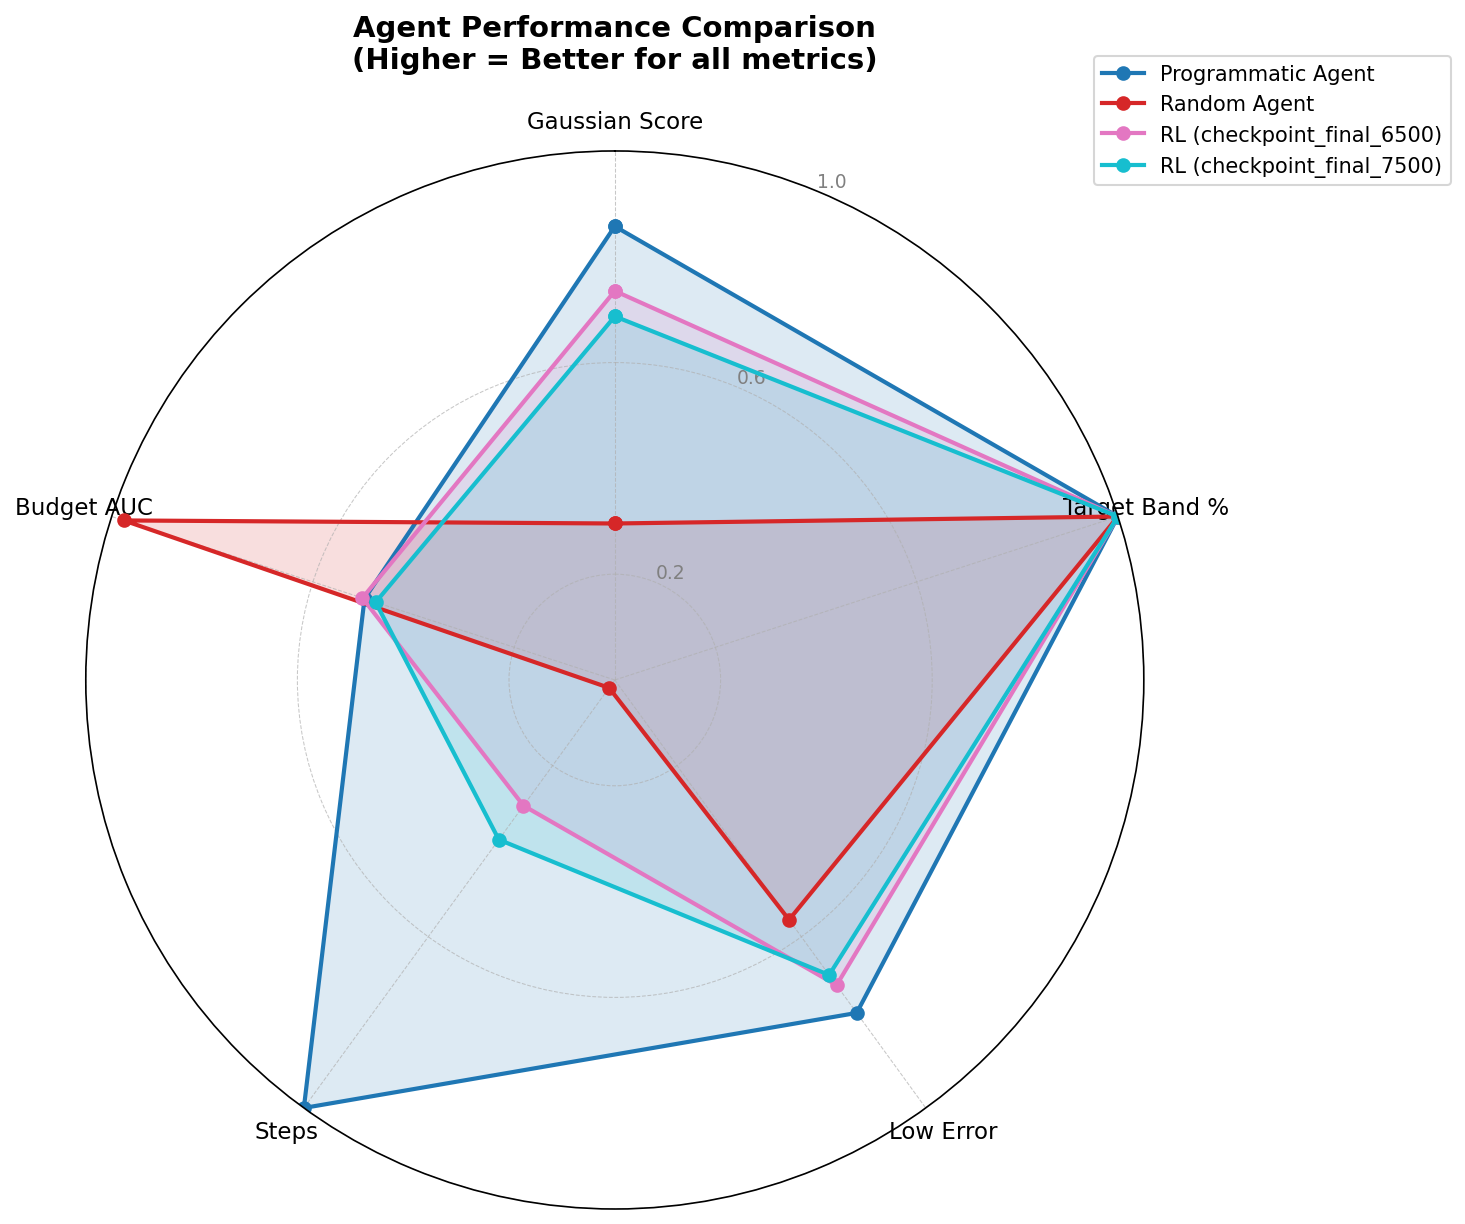
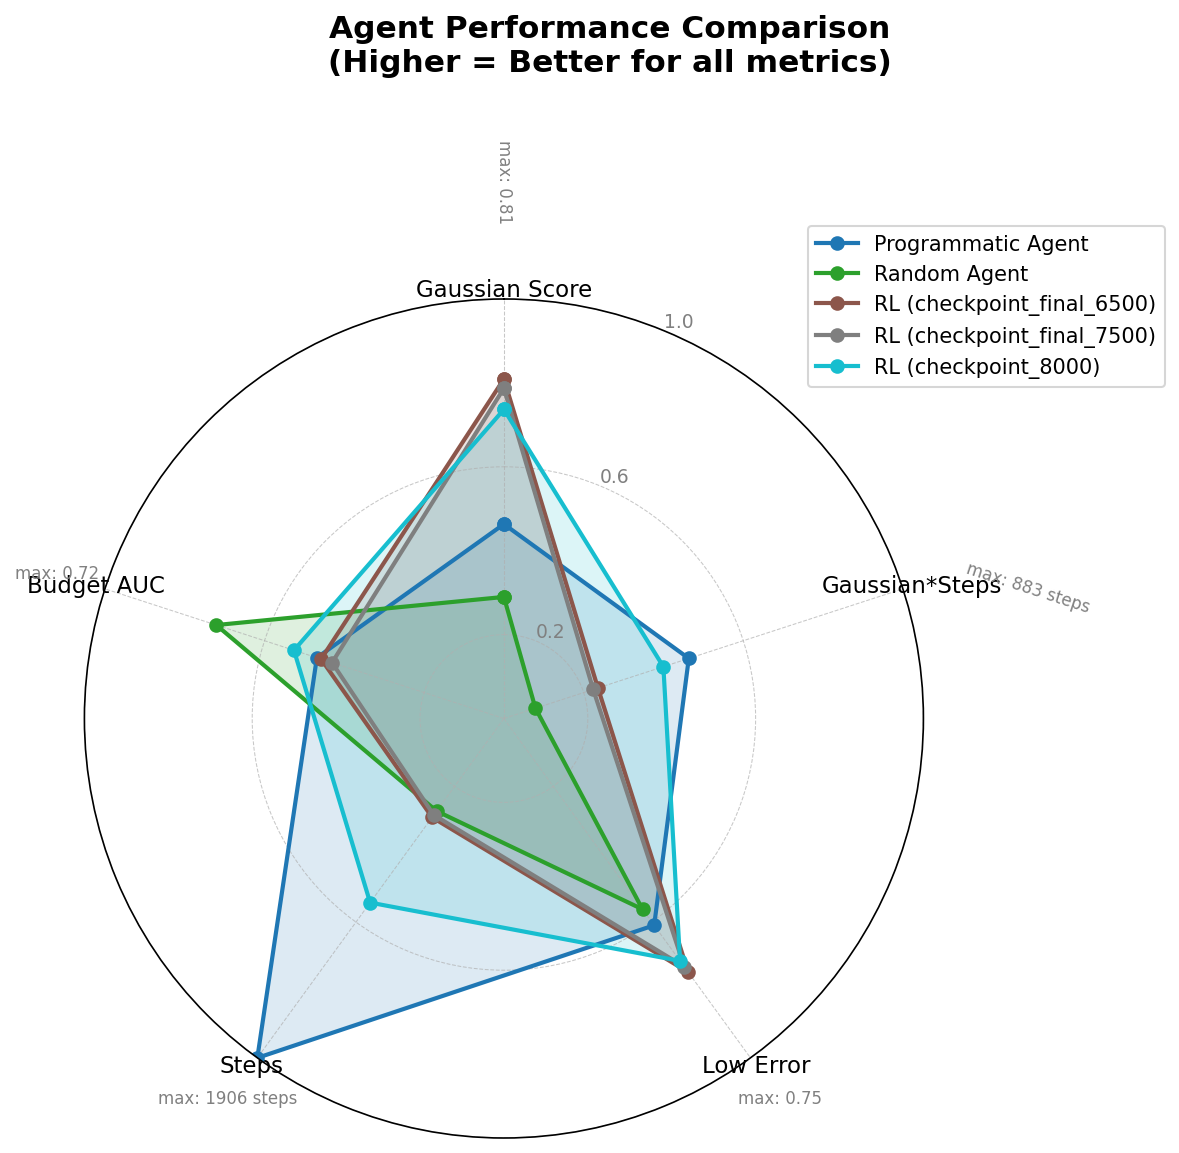
improved comparison charts

diff --git a/src/comparison/visualization.py b/src/comparison/visualization.py
@@ -196,28 +196,39 @@ def plot_radar_chart(
         return None
     
     # Define metrics to display (all higher=better after normalization)
-    # Show metrics: Gaussian Score, Target Band %, Low Error, Steps, and Budget AUC
+    # Show metrics: Gaussian Score, Gaussian*Steps (weights steps by gauss score), Low Error, Steps, and Budget AUC
     # Budget AUC is normalized by (tau * B0) per formula:
     # AUC_norm = (1 / (tau * B0)) * sum_{t=0}^{tau-1} B_t
     metric_names = [
         'Gaussian Score',
-        'Target Band %',
+        'Gaussian*Steps',
         'Low Error',
         'Steps',
         'Budget AUC',
     ]
-    
+
     # Prepare data for each agent
     # To normalize steps (unbounded) we compute the global max across all metrics
     max_steps = max((m.steps for m in all_metrics), default=1)
+
+    # Precompute max of gaussian_score * steps to normalize the new measure
+
+
     agent_data = []
+    # Keep track of observed raw maxima for each metric so we can annotate axis with their highest values
+    observed_gaussian = []
+    observed_gauss_steps = []
+    observed_low_error = []
+    observed_steps = []
+    observed_auc = []
     for metrics in all_metrics:
         # Gaussian kernel score (already 0-1, higher=better)
         gaussian_score = max(0.0, min(1.0, metrics.gaussian_kernel_score))
-        
-        # Target band ratio (0-1, higher=better)
-        target_band = metrics.target_band_ratio
-        
+
+        # Gaussian*Steps: weight the number of steps by gaussian score, then normalize across agents
+        steps_norm = metrics.steps / max_steps if max_steps > 0 else 0.0
+        gauss_steps_norm = gaussian_score * steps_norm
+        gauss_steps_raw = gaussian_score * metrics.steps
         # Budget efficiency: proportion of budget remaining (0-1, higher=better)
         #budget_efficiency = metrics.final_budget / metrics.initial_budget if metrics.initial_budget > 0 else 0.0
         
@@ -251,8 +262,14 @@ def plot_radar_chart(
 
         agent_data.append({
             'name': metrics.agent_name,
-            'values': [gaussian_score, target_band, low_error, steps_norm, auc_norm]
+            'values': [gaussian_score, gauss_steps_norm, low_error, steps_norm, auc_norm]
         })
+        # record observed raw values for axis annotations
+        observed_gaussian.append(gaussian_score)
+        observed_gauss_steps.append(gauss_steps_raw)
+        observed_low_error.append(low_error)
+        observed_steps.append(metrics.steps)
+        observed_auc.append(auc_norm)
     
     # Number of metrics
     num_vars = len(metric_names)
@@ -263,8 +280,8 @@ def plot_radar_chart(
     # Complete the loop
     angles += angles[:1]
     
-    # Create figure
-    fig, ax = plt.subplots(figsize=(10, 10), subplot_kw=dict(projection='polar'))
+    # Create figure (slightly smaller so the chart doesn't overlap window labels/title)
+    fig, ax = plt.subplots(figsize=(8, 8), subplot_kw=dict(projection='polar'))
     
     # Colors for different agents
     colors = plt.cm.tab10(np.linspace(0, 1, len(all_metrics)))
@@ -284,6 +301,8 @@ def plot_radar_chart(
     # Draw axis lines for each angle and label
     ax.set_xticks(angles[:-1])
     ax.set_xticklabels(metric_names, size=11)
+    # Move x tick labels slightly inward to avoid overlap with max-value annotations
+    ax.tick_params(axis='x', pad=-6)
     
     # Set y-axis limits
     ax.set_ylim(0, 1)
@@ -296,11 +315,41 @@ def plot_radar_chart(
     # Add legend
     ax.legend(loc='upper right', bbox_to_anchor=(1.3, 1.1), fontsize=10)
     
-    # Add title
-    plt.title('Agent Performance Comparison\n(Higher = Better for all metrics)', 
-              size=14, weight='bold', pad=20)
-    
-    plt.tight_layout()
+    # Use suptitle to place the main title above the entire figure, outside the radar area
+    plt.suptitle('Agent Performance Comparison\n(Higher = Better for all metrics)',
+                 size=15, weight='bold', y=0.98)
+    # Remove the subplot title to avoid overlap
+    ax.set_title("")
+    # Adjust layout so the chart sits lower and doesn't overlap the suptitle
+    plt.tight_layout(rect=[0, 0, 1, 0.93])
+    # Annotate each axis with the highest observed raw value for that metric (placed just outside the rim)
+    # Prepare human-readable labels per metric
+    axis_max_labels = []
+    # Gaussian Score
+    max_g = max(observed_gaussian) if observed_gaussian else 0.0
+    axis_max_labels.append(f"max: {max_g:.2f}")
+    # Gaussian*Steps (raw: gaussian * steps)
+    max_gs = max(observed_gauss_steps) if observed_gauss_steps else 0.0
+    axis_max_labels.append(f"max: {int(max_gs)} steps")
+    # Low Error
+    max_le = max(observed_low_error) if observed_low_error else 0.0
+    axis_max_labels.append(f"max: {max_le:.2f}")
+    # Steps
+    max_s = max(observed_steps) if observed_steps else 0
+    axis_max_labels.append(f"max: {int(max_s)} steps")
+    # Budget AUC
+    max_auc = max(observed_auc) if observed_auc else 0.0
+    axis_max_labels.append(f"max: {max_auc:.2f}")
+
+    # Place annotations at each axis angle slightly outside the outer radius
+    for i, (angle, lbl) in enumerate(zip(angles[:-1], axis_max_labels)):
+        # For Budget AUC (axis 0) and Gaussian*Steps (axis 1), rotate and nudge further out
+        if i == 0:  # Budget AUC (leftmost)
+            ax.text(angle, 1.18, lbl, size=8, ha='right', va='center', color='gray', rotation=angle*180/np.pi-90, rotation_mode='anchor')
+        elif i == 1:  # Gaussian*Steps (top-right)
+            ax.text(angle, 1.16, lbl, size=8, ha='left', va='center', color='gray', rotation=angle*180/np.pi-90, rotation_mode='anchor')
+        else:
+            ax.text(angle, 1.12, lbl, size=8, ha='center', va='center', color='gray')
     
     if output_path:
         plt.savefig(output_path, dpi=150, bbox_inches='tight')

diff --git a/src/comparison/runner.py b/src/comparison/runner.py
@@ -116,6 +116,7 @@ def run_agent(
             
             # Apply action to model
             if action_type == ActionType.DOSE and dose_strength > 0:
+                print(f"applying dose: {dose_strength} at step {step}")
                 antibiotic = (
                     getattr(agent, "selected_antibiotic", None)
                     or model.current_antibiotic

diff --git a/src/comparison/programmatic_agent.py b/src/comparison/programmatic_agent.py
@@ -26,7 +26,7 @@ class ProgrammaticAgent(BaseComparisonAgent):
         self,
         target_population: int,
         initial_budget: float,
-        kp: float = 0.005,
+        kp: float = 0.05,
         tolerance: float = 0.15,
         dose_cooldown: int = 20,
         count_interval: int = 15,
